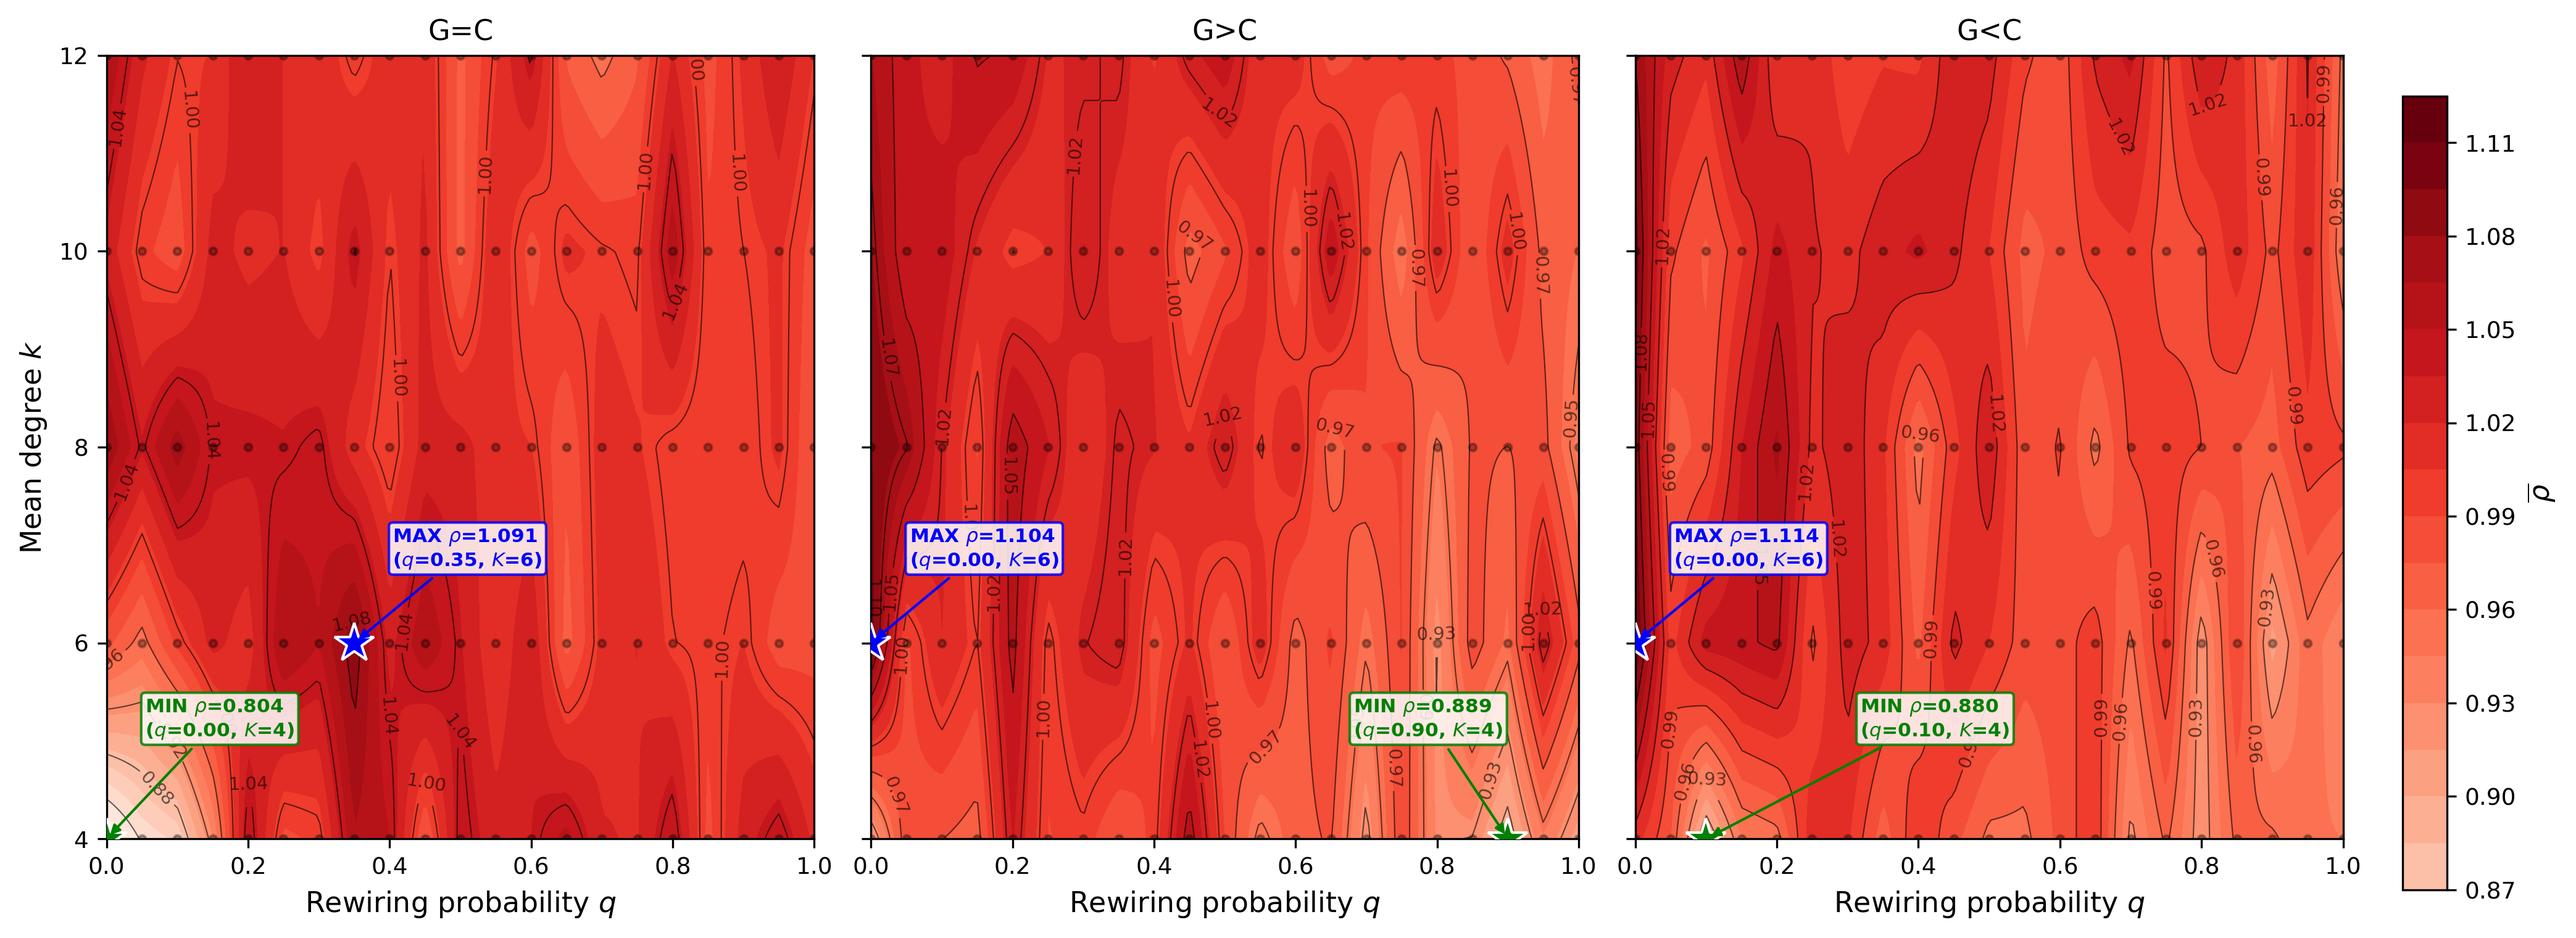
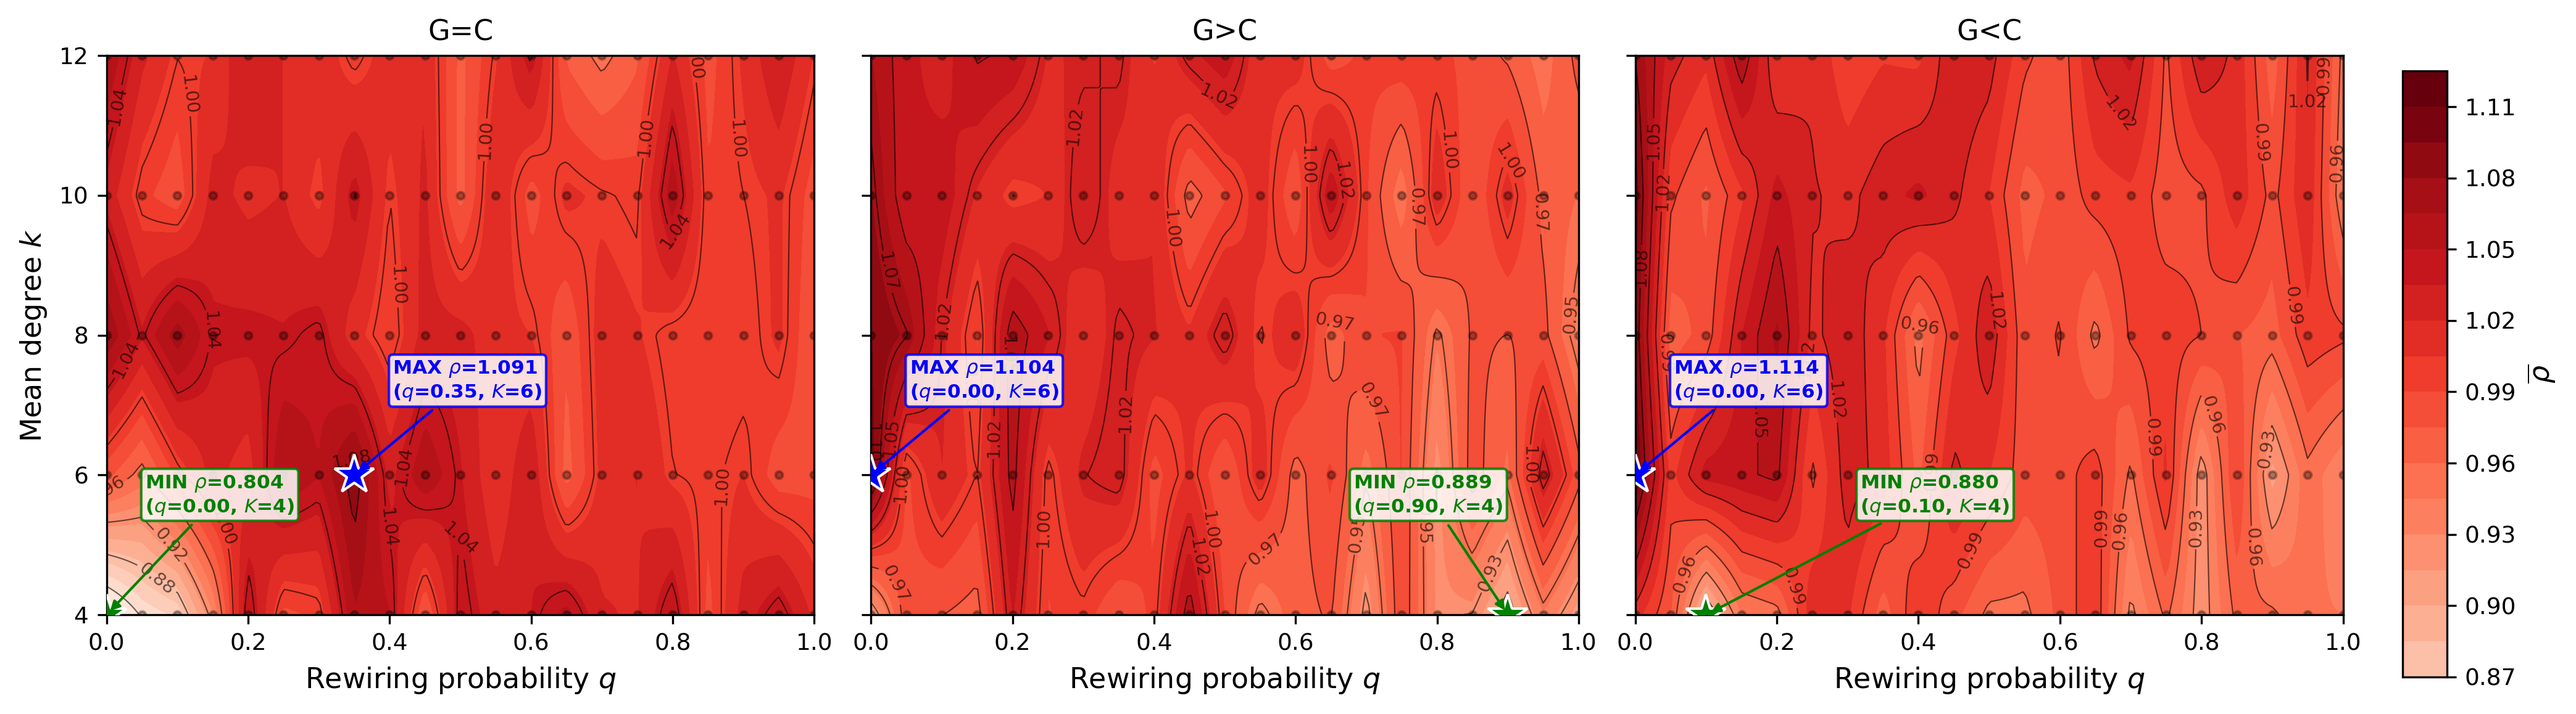
图片压缩

diff --git a/Topology2.0/ws_topology_effects/swing_cascade/plots.py b/Topology2.0/ws_topology_effects/swing_cascade/plots.py
@@ -240,7 +240,7 @@ def plot_bisection_combined_heatmap():
     vmin = min(np.nanmin(z) for z in Z_all.values())
     vmax = max(np.nanmax(z) for z in Z_all.values())
 
-    fig, axes = plt.subplots(1, 3, figsize=(16, 5.5), sharey=True,
+    fig, axes = plt.subplots(1, 3, figsize=(16, 4.2), sharey=True,
                              gridspec_kw={"right": 0.88})
 
     cf = None
@@ -314,7 +314,7 @@ def plot_bisection_combined_heatmap():
     cb = fig.colorbar(cf, cax=cbar_ax)
     cb.set_label(r"$\overline{\rho}$")
 
-    fig.subplots_adjust(wspace=0.08, top=0.92, bottom=0.15)
+    fig.subplots_adjust(wspace=0.08, top=0.90, bottom=0.18)
     _save_fig(fig, "combined_cascade_bisection_heatmap")
 
 
